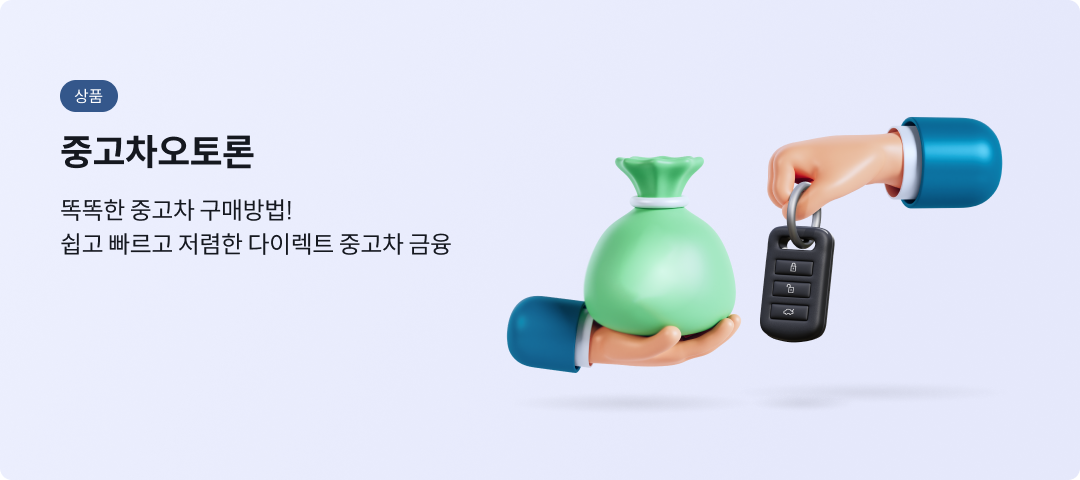
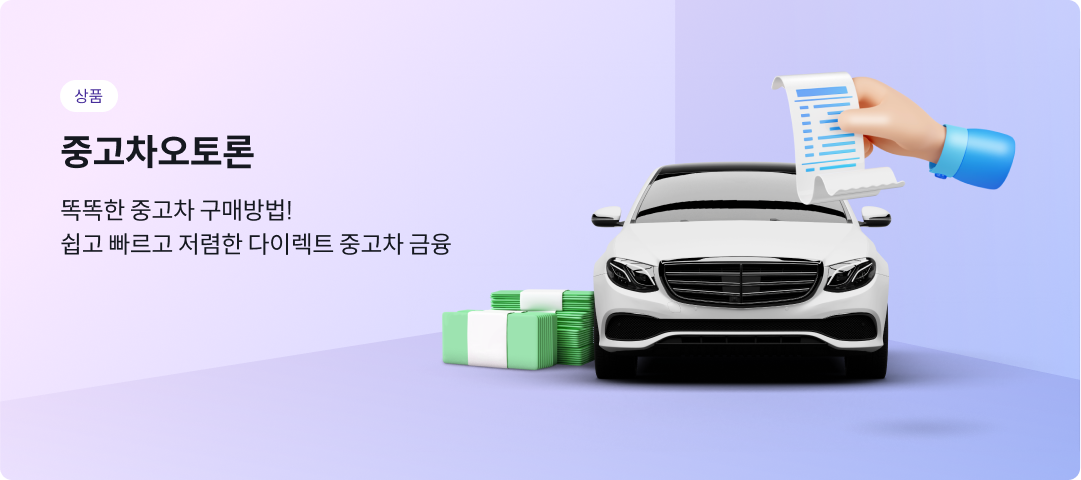
[DT-312] 메인 배너 이미지 교체

diff --git a/src/views/uiGuide/GuideIndex.vue b/src/views/uiGuide/GuideIndex.vue
@@ -413,6 +413,10 @@ const datas = () => [
             date: '2023.10.19',
             text: '이벤트 영역 배너 타입 수정',
           },
+          {
+            date: '2023.10.20',
+            text: '메인 배너 이미지 교체',
+          },
         ],
       },
     ],
